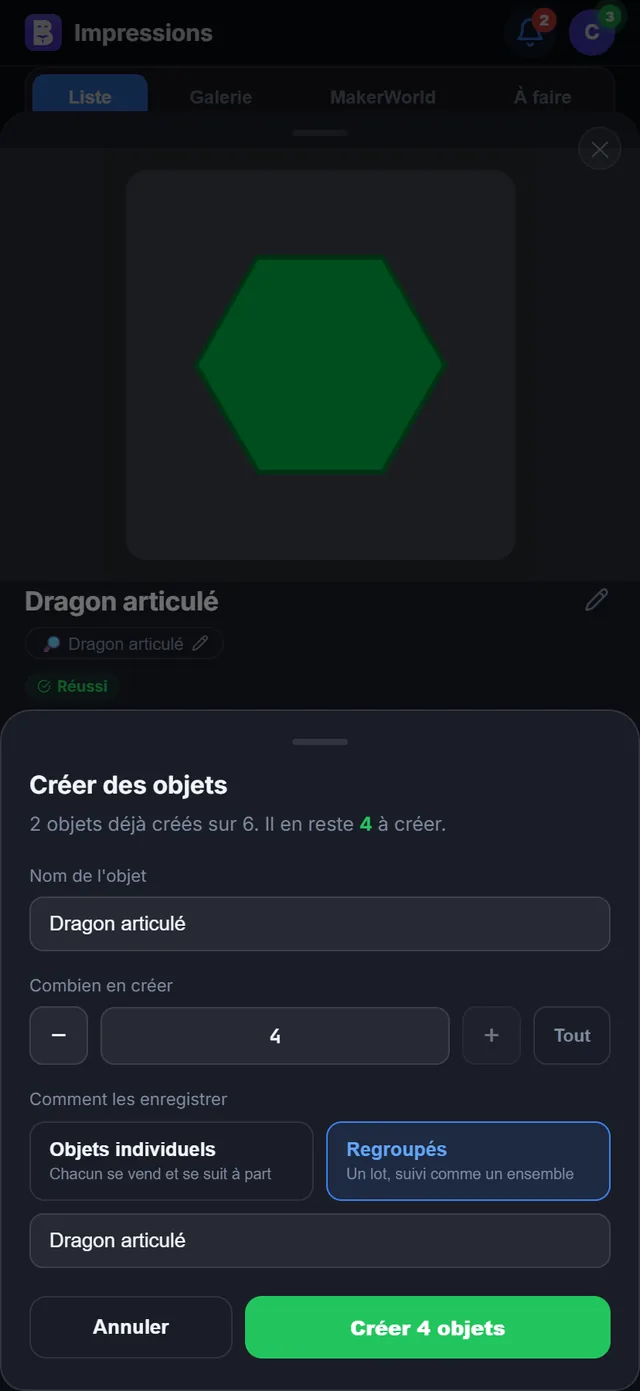
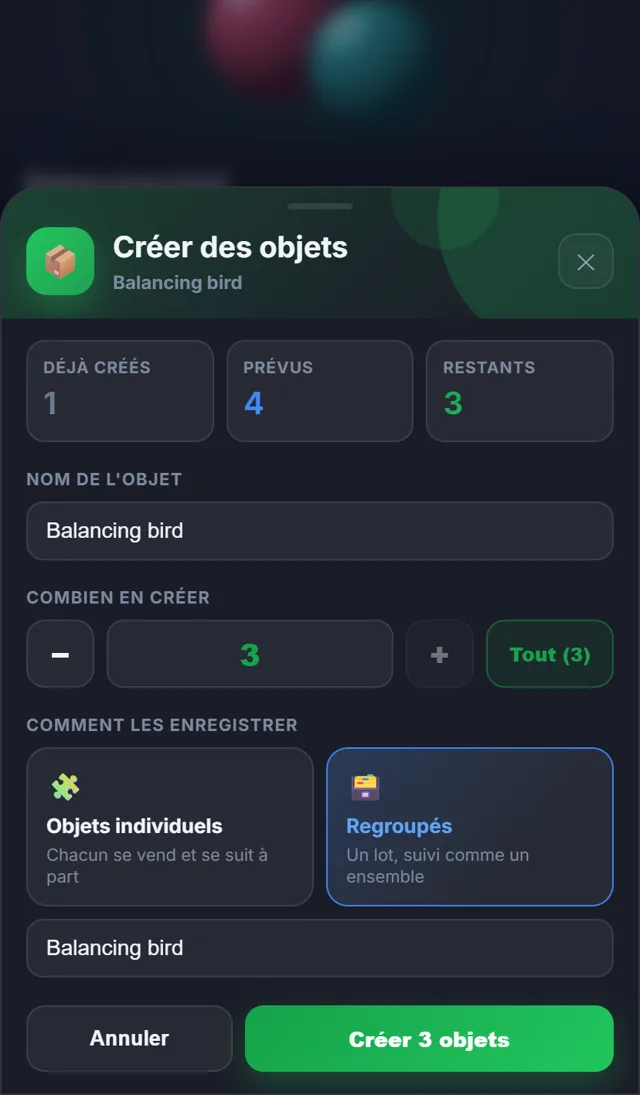
Fiche à l'essai : filaments repliables, objets au menu ; fenêtre « Créer des objets » refaite
- Nouvelle fiche : les filaments se replient de nouveau (replié par
  défaut, choix retenu ; la barre de couleurs reste le résumé, « N à
  associer » visible) ; « Créer des objets » passe dans le menu ⋯ avec
  « N / T déjà créés ».
- La fenêtre « Créer des objets » (partout) prend le style des fenêtres
  des tuiles : en-tête vert, cases Déjà créés / Prévus / Restants,
  quantité en grand, choix individuels / regroupés en cartes. Même
  logique qu'avant.
- Guide (objets, impressions) et capture mis à jour.

diff --git a/frontend/src/components/ObjectCreateSheet.jsx b/frontend/src/components/ObjectCreateSheet.jsx
@@ -14,7 +14,12 @@ import { useKeyboardInset } from "../utils/keyboard";
  * Au-dela d'un objet, une question que le quota ne tranche pas : des unites
  * independantes, ou un lot ? Elle est posee explicitement plutot que decidee
  * a la place de l'utilisateur.
+ *
+ * La fenetre a le style des fenetres des tuiles (24/10/2026) : en-tete en
+ * degrade, grande icone, cases de chiffres.
  */
+const C = "#22C55E";
+
 export default function ObjectCreateSheet({ parentType, parentId, defaultName,
                                             costFabrication = 0, onDone, onClose }) {
   useTrackDetail("Objets · Nouvel objet");
@@ -55,89 +60,98 @@ export default function ObjectCreateSheet({ parentType, parentId, defaultName,
     }
   };
 
-  const inp = { width:"100%", boxSizing:"border-box", padding:"9px 12px", borderRadius:9,
+  const inp = { width:"100%", boxSizing:"border-box", padding:"10px 12px", borderRadius:11,
     border:"1px solid var(--border)", background:"var(--surface2)", color:"var(--text)",
-    fontSize:13, outline:"none" };
+    fontSize:14, outline:"none" };
+  const narrow = typeof window !== "undefined" && window.innerWidth < 560;
+  const grad = (a, b) => ({ backgroundImage:`linear-gradient(135deg, ${a}, ${b})`, WebkitBackgroundClip:"text", backgroundClip:"text", color:"transparent" });
+  const lbl = { fontSize:11, fontWeight:800, letterSpacing:".06em", textTransform:"uppercase", color:"var(--muted)", display:"block", marginBottom:6 };
+  // une case de chiffre, comme les fenetres des tuiles
+  const stat = (l, v, a, b) => (
+    <div style={{ flex:1, minWidth:0, padding:"9px 10px", borderRadius:12, background:"var(--surface2)", border:"1px solid var(--border)" }}>
+      <div style={{ fontSize:10.5, fontWeight:800, color:"var(--muted)", textTransform:"uppercase", letterSpacing:".05em" }}>{l}</div>
+      <div style={{ fontSize:20, fontWeight:900, ...grad(a, b) }}>{v}</div>
+    </div>);
+  const step = (label, on, off) => (
+    <button onClick={on} disabled={off}
+      style={{ width:44, height:44, borderRadius:12, border:"1px solid var(--border)", background:"var(--surface2)", color:"var(--text)",
+        fontSize:20, fontWeight:800, cursor:"pointer", opacity: off ? 0.4 : 1 }}>{label}</button>);
 
   return (
     <div onClick={onClose}
-      style={{ position:"fixed", inset:0, zIndex:6000, background:"rgba(0,0,0,0.55)",
-        display:"flex", alignItems:"flex-end", justifyContent:"center" }}>
-      <div onClick={e => e.stopPropagation()} className="sheet-panel"
-        style={{ width:"100%", maxWidth:520, borderTopLeftRadius:20, borderTopRightRadius:20,
-          padding:"18px 18px max(env(safe-area-inset-bottom,20px),20px)",
-          marginBottom: kb, transition:"margin-bottom 0.15s ease",
-          maxHeight: kb > 0 ? `calc(92dvh - ${kb}px)` : "85dvh", overflowY:"auto" }}>
-        <div style={{ width:36, height:4, borderRadius:2, background:"var(--border)",
-          margin:"0 auto 14px" }}/>
-        <h3 style={{ margin:"0 0 4px", fontSize:16, fontWeight:800, color:"var(--text)" }}>
-          Créer des objets
-        </h3>
+      style={{ position:"fixed", inset:0, zIndex:6000, background:"rgba(2,6,23,0.55)", backdropFilter:"blur(6px)",
+        display:"flex", alignItems: narrow ? "flex-end" : "center", justifyContent:"center", padding: narrow ? 0 : 14 }}>
+      <div onClick={e => e.stopPropagation()}
+        style={{ width:"100%", maxWidth:520, borderRadius: narrow ? "26px 26px 0 0" : 24, background:"var(--sheet-bg)", border:"1px solid var(--border)",
+          boxShadow:"0 30px 80px rgba(0,0,0,0.45)", overflow:"hidden", display:"flex", flexDirection:"column",
+          marginBottom: kb, transition:"margin-bottom 0.15s ease", maxHeight: kb > 0 ? `calc(92dvh - ${kb}px)` : "88dvh",
+          animation: narrow ? "bn-sheet-up .3s cubic-bezier(.2,.8,.2,1)" : "bn-pop .24s cubic-bezier(.2,.8,.2,1)" }}>
+        {/* l'en-tete : degrade vert, deux halos, grande icone */}
+        <div style={{ position:"relative", padding: narrow ? "10px 16px 14px" : "16px 18px", overflow:"hidden", flexShrink:0,
+          background:`linear-gradient(135deg, ${C}38, ${C}10 55%, transparent)` }}>
+          <span aria-hidden="true" style={{ position:"absolute", right:-50, top:-70, width:180, height:180, borderRadius:"50%", background:`${C}30` }}/>
+          <span aria-hidden="true" style={{ position:"absolute", right:90, top:-30, width:70, height:70, borderRadius:"50%", background:`${C}1c` }}/>
+          {narrow && <div style={{ width:42, height:4, borderRadius:4, background:"var(--border)", margin:"0 auto 10px" }}/>}
+          <div style={{ display:"flex", alignItems:"center", gap:12, position:"relative" }}>
+            <span style={{ width:44, height:44, borderRadius:14, display:"flex", alignItems:"center", justifyContent:"center", flexShrink:0, fontSize:22,
+              background:`linear-gradient(135deg, ${C}, ${C}bb)`, boxShadow:`0 8px 20px ${C}55` }}>📦</span>
+            <span style={{ flex:1, minWidth:0 }}>
+              <span style={{ display:"block", fontSize:19, fontWeight:900, color:"var(--text)" }}>Créer des objets</span>
+              <span style={{ display:"block", fontSize:12, fontWeight:700, color:"var(--muted)", whiteSpace:"nowrap", overflow:"hidden", textOverflow:"ellipsis" }}>
+                {defaultName || "Sans nom"}</span>
+            </span>
+            <button onClick={onClose} aria-label="Fermer" style={{ width:36, height:36, borderRadius:12, border:"1px solid var(--border)", background:"var(--surface)",
+              color:"var(--text2)", cursor:"pointer", fontSize:15 }}>✕</button>
+          </div>
+        </div>
 
-        {quota && (
-          <p style={{ margin:"0 0 16px", fontSize:12.5, color:"var(--muted)" }}>
-            {quota.used} objet{quota.used>1?"s":""} déjà créé{quota.used>1?"s":""} sur {quota.total}.
-            {remaining > 0
-              ? <> Il en reste <b style={{ color:"#22c55e" }}>{remaining}</b> à créer.</>
-              : <> <b style={{ color:"#ef4444" }}>Aucun restant.</b></>}
-          </p>
-        )}
+        <div style={{ flex:1, minHeight:0, overflowY:"auto", padding: narrow ? "14px 16px 6px" : "16px 18px 6px", display:"flex", flexDirection:"column", gap:16 }}>
+          {quota && <div style={{ display:"flex", gap:8 }}>
+            {stat("Déjà créés", quota.used, "#64748B", "#94A3B8")}
+            {stat("Prévus", quota.total, "#3B82F6", "#60A5FA")}
+            {stat("Restants", remaining, remaining > 0 ? "#16A34A" : "#DC2626", remaining > 0 ? "#4ADE80" : "#F87171")}
+          </div>}
+          {err && <p style={{ fontSize:12.5, color:"#ef4444", margin:0, fontWeight:700 }}>{err}</p>}
+          {quota && remaining <= 0 && <p style={{ margin:0, fontSize:13, color:"var(--muted)" }}>Tous les objets prévus sont déjà créés.</p>}
 
-        {err && <p style={{ fontSize:12, color:"#ef4444", margin:"0 0 12px" }}>{err}</p>}
-
-        {remaining > 0 && (
-          <div style={{ display:"flex", flexDirection:"column", gap:14 }}>
+          {remaining > 0 && <>
             <div>
-              <label style={{ fontSize:11, color:"var(--muted)", display:"block",
-                marginBottom:5 }}>Nom de l'objet</label>
+              <label style={lbl}>Nom de l'objet</label>
               <input style={inp} value={name} onChange={e => setName(e.target.value)}/>
             </div>
 
             <div>
-              <label style={{ fontSize:11, color:"var(--muted)", display:"block",
-                marginBottom:5 }}>Combien en créer</label>
+              <label style={lbl}>Combien en créer</label>
               {/* Boutons plutot qu'un champ libre : la borne est visible et on
                   ne peut pas saisir l'impossible. Le champ reste la pour les
                   grandes quantites. */}
               <div style={{ display:"flex", alignItems:"center", gap:8 }}>
-                <button onClick={() => setQty(q => clamp(q - 1))} disabled={qty <= 1}
-                  style={{ width:38, height:38, borderRadius:9, border:"1px solid var(--border)",
-                    background:"var(--surface2)", color:"var(--text)", fontSize:18,
-                    cursor:"pointer", opacity: qty<=1?0.4:1 }}>−</button>
+                {step("−", () => setQty(q => clamp(q - 1)), qty <= 1)}
                 <input type="number" min={1} max={remaining} value={qty}
                   onChange={e => setQty(clamp(parseInt(e.target.value, 10)))}
-                  style={{ ...inp, textAlign:"center", flex:1,
-                    fontFamily:"'JetBrains Mono',ui-monospace,monospace", fontWeight:700 }}/>
-                <button onClick={() => setQty(q => clamp(q + 1))} disabled={qty >= remaining}
-                  style={{ width:38, height:38, borderRadius:9, border:"1px solid var(--border)",
-                    background:"var(--surface2)", color:"var(--text)", fontSize:18,
-                    cursor:"pointer", opacity: qty>=remaining?0.4:1 }}>+</button>
+                  style={{ ...inp, textAlign:"center", flex:1, height:44, fontSize:20, fontWeight:900, color:"#16a34a" }}/>
+                {step("+", () => setQty(q => clamp(q + 1)), qty >= remaining)}
                 {remaining > 1 && (
                   <button onClick={() => setQty(remaining)}
-                    style={{ padding:"0 12px", height:38, borderRadius:9,
-                      border:"1px solid var(--border)", background:"none",
-                      color:"var(--muted)", fontSize:11.5, fontWeight:600,
-                      cursor:"pointer", whiteSpace:"nowrap" }}>Tout</button>
+                    style={{ padding:"0 14px", height:44, borderRadius:12, border:`1px solid ${C}55`, background:`${C}14`, color:"#16a34a",
+                      fontSize:12.5, fontWeight:800, cursor:"pointer", whiteSpace:"nowrap" }}>Tout ({remaining})</button>
                 )}
               </div>
             </div>
 
             {qty > 1 && (
               <div>
-                <label style={{ fontSize:11, color:"var(--muted)", display:"block",
-                  marginBottom:6 }}>Comment les enregistrer</label>
+                <label style={lbl}>Comment les enregistrer</label>
                 <div style={{ display:"flex", gap:8 }}>
-                  {[["single","Objets individuels","Chacun se vend et se suit à part"],
-                    ["grouped","Regroupés","Un lot, suivi comme un ensemble"]].map(([m,l,d]) => (
+                  {[["single","🧩","Objets individuels","Chacun se vend et se suit à part"],
+                    ["grouped","🗃","Regroupés","Un lot, suivi comme un ensemble"]].map(([m,ic,l,d]) => (
                     <button key={m} onClick={() => setMode(m)}
-                      style={{ flex:1, minWidth:0, textAlign:"left", padding:"10px 12px",
-                        borderRadius:10, cursor:"pointer",
+                      style={{ flex:1, minWidth:0, textAlign:"left", padding:"11px 12px", borderRadius:14, cursor:"pointer", font:"inherit",
                         border:"1px solid " + (mode===m ? "#3b82f6" : "var(--border)"),
-                        background: mode===m ? "rgba(59,130,246,0.12)" : "transparent" }}>
-                      <span style={{ display:"block", fontSize:12.5, fontWeight:700,
-                        color: mode===m ? "#60a5fa" : "var(--text)" }}>{l}</span>
-                      <span style={{ display:"block", fontSize:10, color:"var(--muted)",
-                        marginTop:2, lineHeight:1.3 }}>{d}</span>
+                        background: mode===m ? "linear-gradient(135deg, rgba(59,130,246,0.18), transparent 70%), var(--surface2)" : "var(--surface2)" }}>
+                      <span style={{ display:"block", fontSize:18 }}>{ic}</span>
+                      <span style={{ display:"block", fontSize:13, fontWeight:800, color: mode===m ? "#60a5fa" : "var(--text)", marginTop:2 }}>{l}</span>
+                      <span style={{ display:"block", fontSize:11, color:"var(--muted)", marginTop:2, lineHeight:1.3 }}>{d}</span>
                     </button>
                   ))}
                 </div>
@@ -148,20 +162,19 @@ export default function ObjectCreateSheet({ parentType, parentId, defaultName,
                 )}
               </div>
             )}
-          </div>
-        )}
+          </>}
+        </div>
 
-        <div style={{ display:"flex", gap:8, marginTop:18 }}>
+        <div style={{ display:"flex", gap:8, padding: narrow ? "12px 16px max(env(safe-area-inset-bottom,14px),14px)" : "14px 18px 18px", flexShrink:0 }}>
           <button onClick={onClose}
-            style={{ flex:1, padding:"11px", borderRadius:11, fontSize:13, fontWeight:600,
-              border:"1px solid var(--border)", background:"transparent",
-              color:"var(--text)", cursor:"pointer" }}>
+            style={{ flex:1, padding:"12px", borderRadius:12, fontSize:13.5, fontWeight:700, border:"1px solid var(--border)",
+              background:"var(--surface2)", color:"var(--text)", cursor:"pointer" }}>
             {remaining > 0 ? "Annuler" : "Fermer"}
           </button>
           {remaining > 0 && (
             <button onClick={submit} disabled={busy}
-              style={{ flex:2, padding:"11px", borderRadius:11, fontSize:13, fontWeight:800,
-                border:"none", background:"#22c55e", color:"white", cursor:"pointer",
+              style={{ flex:2, padding:"12px", borderRadius:12, fontSize:13.5, fontWeight:900, border:"none",
+                background:`linear-gradient(135deg, #16a34a, ${C})`, color:"white", cursor:"pointer", boxShadow:`0 8px 20px ${C}44`,
                 opacity: busy?0.6:1 }}>
               {busy ? "Création…" : `Créer ${qty} objet${qty>1?"s":""}`}
             </button>

diff --git a/frontend/src/pages/Prints.jsx b/frontend/src/pages/Prints.jsx
@@ -1177,6 +1177,8 @@ function FicheSection({ icon, title, summary, open: open0 = true, children, tone
 // qu'avant (ouvrir, associer, dissocier) ; « Restituer » dans le titre. Cout reel puis normal entre parentheses.
 function FilamentsV2({ filaments, onSpoolClick, onSpoolPick, onRestore, onUnmap }) {
   const isAdmin = useIsAdmin();
+  const [open0, setOpen0] = useState(() => { try { return localStorage.getItem("bn-fiche-fils") === "1"; } catch { return false; } });
+  const toggle = () => setOpen0(o => { try { localStorage.setItem("bn-fiche-fils", o ? "0" : "1"); } catch { /* rien */ } return !o; });
   const total = filaments.reduce((t, f) => t + (f.grams_used || 0), 0);
   const hex = f => f.color_hex ? (String(f.color_hex).startsWith("#") ? f.color_hex : `#${f.color_hex}`).slice(0, 7) : "#94a3b8";
   const open = f => {
@@ -1195,19 +1197,23 @@ function FilamentsV2({ filaments, onSpoolClick, onSpoolPick, onRestore, onUnmap 
   });
   return (
     <div style={{ borderRadius: 16, background: "var(--surface2)", border: "1px solid var(--border)", padding: "11px 12px", display: "flex", flexDirection: "column", gap: 9 }}>
-      <div style={{ display: "flex", alignItems: "center", gap: 8 }}>
+      <div onClick={toggle} style={{ display: "flex", alignItems: "center", gap: 8, cursor: "pointer" }}>
         <span style={{ fontSize: 13.5, fontWeight: 800, color: "var(--text)" }}>🧵 Filaments</span>
         <span style={{ fontSize: 12, fontWeight: 700, color: "var(--muted)" }}>{filaments.length} · {gFr(total)}</span>
-        {isAdmin && onRestore && filaments.some(f => f.spool_id) && <button onClick={onRestore} data-tip="Rendre aux bobines une part du poids"
-          style={{ marginLeft: "auto", fontSize: 11.5, fontWeight: 800, padding: "3px 10px", borderRadius: 20, cursor: "pointer", background: "rgba(34,197,94,0.14)",
+        <span style={{ marginLeft: "auto" }}/>
+        {isAdmin && onRestore && filaments.some(f => f.spool_id) && <button onClick={e => { e.stopPropagation(); onRestore(); }} data-tip="Rendre aux bobines une part du poids"
+          style={{ fontSize: 11.5, fontWeight: 800, padding: "3px 10px", borderRadius: 20, cursor: "pointer", background: "rgba(34,197,94,0.14)",
             color: "#16a34a", border: "1px solid rgba(34,197,94,0.3)" }}>⚖ Restituer</button>}
+        {/* les bobines manquantes se voient meme replie */}
+        {!open0 && filaments.some(f => !f.spool_id) && <span style={{ fontSize: 11, fontWeight: 800, color: "#d97706" }}>▸ {filaments.filter(f => !f.spool_id).length} à associer</span>}
+        <span style={{ fontSize: 11, color: "var(--muted)", transform: open0 ? "rotate(90deg)" : "none", transition: "transform .15s" }}>▶</span>
       </div>
       {/* la repartition du poids */}
       {total > 0 && <div style={{ display: "flex", height: 8, borderRadius: 6, overflow: "hidden", gap: 2 }}>
         {filaments.map((f, i) => <span key={i} data-tip={`${f.filament_translated_name || f.filament_fila_type || f.filament_name || "Filament"} · ${Math.round(100 * (f.grams_used || 0) / total)} %`}
           style={{ flex: `${Math.max(0.02, (f.grams_used || 0) / total)} 1 0`, background: hex(f), boxShadow: "inset 0 0 0 1px rgba(0,0,0,.08)" }}/>)}
       </div>}
-      <div style={{ display: "flex", flexDirection: "column", gap: 6 }}>
+      {open0 && <div style={{ display: "flex", flexDirection: "column", gap: 6 }}>
         {filaments.map((f, i) => (
           <div key={i} onClick={() => open(f)} onContextMenu={e => { e.preventDefault(); menu(e, f); }}
             onPointerDown={e => { const t = setTimeout(() => { navigator.vibrate && navigator.vibrate(20); menu(e, f); }, 600); e.currentTarget._lpt = t; }}
@@ -1233,7 +1239,7 @@ function FilamentsV2({ filaments, onSpoolClick, onSpoolPick, onRestore, onUnmap 
             {isAdmin && <button onClick={e => { e.stopPropagation(); menu(e, f); }} aria-label="Actions du filament"
               style={{ width: 28, height: 28, flexShrink: 0, borderRadius: 9, border: "none", background: "transparent", color: "var(--muted)", cursor: "pointer", fontSize: 15 }}>⋯</button>}
           </div>))}
-      </div>
+      </div>}
     </div>);
 }
 
@@ -1264,6 +1270,12 @@ function PrintDetailV2({ p: pProp, onClose, onDelete, onChanged }) {
   const [showDeleteConfirm, setShowDeleteConfirm] = useState(false);
   const [selSpool, setSelSpool] = useState(null);
   // le detail du cout : ouvert par defaut (comme l'ancien bloc) ; l'appareil retient le choix
+  // le compte des objets crees (pour l'entree du menu, comme le faisait le bouton)
+  const [objQ, setObjQ] = useState(null);
+  useEffect(() => {
+    if (!isAdmin) return;
+    client.get("/objects/objects/quota", { params: { parent_type: "print", parent_id: pProp.id } }).then(r => setObjQ(r.data)).catch(() => setObjQ(null));
+  }, [pProp.id, refreshKey, isAdmin]); // eslint-disable-line react-hooks/exhaustive-deps
   const [costOpen, setCostOpen0] = useState(() => { try { return localStorage.getItem("bn-fiche-cost") === "1"; } catch { return false; } });
   const setCostOpen = f => setCostOpen0(o => { const v = typeof f === "function" ? f(o) : f; try { localStorage.setItem("bn-fiche-cost", v ? "1" : "0"); } catch { /* rien */ } return v; });
   const [localNb, setLocalNb] = useState(pProp.number_of_items || 1);
@@ -1296,6 +1308,9 @@ function PrintDetailV2({ p: pProp, onClose, onDelete, onChanged }) {
     items: [
       { icon: "✏", label: "Éditer", onClick: () => setEditMode(true) },
       { icon: "📣", label: "Partager", hint: "Telegram", onClick: () => setSharing(true) },
+      objQ && objQ.remaining > 0 ? { icon: "📦", label: "Créer des objets", hint: `${objQ.used} / ${objQ.total} déjà créés`,
+        onClick: () => setObjCreate({ name: p.file_name || "Sans nom", cost: totalBobine }) }
+        : objQ ? { icon: "📦", label: "Objets : tous créés", hint: `${objQ.used} / ${objQ.total}`, onClick: () => setObjCreate({ name: p.file_name || "Sans nom", cost: totalBobine }) } : null,
       groupe && { icon: "⛓", label: "Retirer du groupe", hint: groupe, onClick: handleUngroup },
       (p.source_3mf || p.model_3mf || (p.design_id && p.mw_profile_id)) && "-",
       p.source_3mf && { icon: "⤓", label: "Télécharger le 3MF d'origine", hint: "MakerWorld · à retrancher", onClick: () => download3mf(p.id, "source") },
@@ -1408,8 +1423,6 @@ function PrintDetailV2({ p: pProp, onClose, onDelete, onChanged }) {
       {fils.length > 0 && <FilamentsV2 filaments={fils} onSpoolClick={setSelSpool} onSpoolPick={setSpoolPicker}
         onRestore={() => setShowDeleteConfirm("restore")} onUnmap={setUnmapping}/>}
       {p.design_id && <MakerWorldCard designId={p.design_id} prints={[p]}/>}
-      {isAdmin && <ObjectQuotaButton parentType="print" parentId={p.id} label="depuis ce print" refreshKey={refreshKey}
-        onOpen={() => setObjCreate({ name: p.file_name || "Sans nom", cost: totalBobine })}/>}
       {p.status_note && <FicheSection icon="💬" title="Commentaire" tone="#A855F7">
         <p style={{ fontSize: 13, color: "var(--text)", margin: 0, lineHeight: 1.5 }}>{p.status_note}</p></FicheSection>}
       {(p.job_id || p.design_id) && <FicheSection icon="#" title="Identifiants" open={false}>

diff --git a/backend/guide/pages/impressions.html b/backend/guide/pages/impressions.html
@@ -179,7 +179,7 @@
 
   <section id="impressions-fiche-filaments">
     <h3>Filaments et bobines</h3>
-    <div class="note" id="impressions-fiche-v2"><p><b>Nouvelle fiche, à l'essai.</b> Au bas de la fiche, <span class="ui">✨ Essayer la nouvelle fiche</span> l'affiche sur cet appareil : le plateau en grand avec le titre, l'état, le groupe et le nom de recherche posés dessus ; quatre cases <span class="ui">Quand</span> (jour, heure et date), <span class="ui">Durée</span>, <span class="ui">Poids</span> et <span class="ui">Coût</span> : le prix réel, puis le prix normal entre parenthèses (touche la case pour le détail : filament, électricité, total, éléments et prix à l'unité, <span class="ui">Modifier</span>). Puis les photos ; les <b>filaments</b> : leur répartition en une barre de couleurs, une rangée par filament (poids, prix réel et normal entre parenthèses, « ✓ #3 » pour sa bobine ou « ▸ Associer »), toucher ouvre la bobine ou l'association, <span class="ui">⋯</span> ou l'appui long : ouvrir, associer, dissocier, et <span class="ui">⚖ Restituer</span> dans le titre ; MakerWorld, les objets, le commentaire et les identifiants. Les actions restent en bas : <span class="ui">Éditer</span>, <span class="ui">Partager</span> et <span class="ui">⋯</span> (aussi en haut) pour <span class="ui">Retirer du groupe</span>, <span class="ui">Télécharger le 3MF d'origine</span> (ou <span class="ui">Récupérer le 3MF d'origine</span>), <span class="ui">Télécharger le 3MF tranché</span>, <span class="ui">Supprimer…</span> et <span class="ui">Revenir à l'ancienne fiche</span>. Sur ordinateur, deux colonnes. Rien de l'ancienne fiche ne disparaît.</p></div>
+    <div class="note" id="impressions-fiche-v2"><p><b>Nouvelle fiche, à l'essai.</b> Au bas de la fiche, <span class="ui">✨ Essayer la nouvelle fiche</span> l'affiche sur cet appareil : le plateau en grand avec le titre, l'état, le groupe et le nom de recherche posés dessus ; quatre cases <span class="ui">Quand</span> (jour, heure et date), <span class="ui">Durée</span>, <span class="ui">Poids</span> et <span class="ui">Coût</span> : le prix réel, puis le prix normal entre parenthèses (touche la case pour le détail : filament, électricité, total, éléments et prix à l'unité, <span class="ui">Modifier</span>). Puis les photos ; les <b>filaments</b> : leur répartition en une barre de couleurs (touche le titre pour déplier ou replier ; replié par défaut, « ▸ N à associer » s'il en manque), une rangée par filament (poids, prix réel et normal entre parenthèses, « ✓ #3 » pour sa bobine ou « ▸ Associer »), toucher ouvre la bobine ou l'association, <span class="ui">⋯</span> ou l'appui long : ouvrir, associer, dissocier, et <span class="ui">⚖ Restituer</span> dans le titre ; MakerWorld, le commentaire et les identifiants. Les actions restent en bas : <span class="ui">Éditer</span>, <span class="ui">Partager</span> et <span class="ui">⋯</span> (aussi en haut) pour <span class="ui">📦 Créer des objets</span> (avec « N / T déjà créés »), <span class="ui">Retirer du groupe</span>, <span class="ui">Télécharger le 3MF d'origine</span> (ou <span class="ui">Récupérer le 3MF d'origine</span>), <span class="ui">Télécharger le 3MF tranché</span>, <span class="ui">Supprimer…</span> et <span class="ui">Revenir à l'ancienne fiche</span>. Sur ordinateur, deux colonnes. Rien de l'ancienne fiche ne disparaît.</p></div>
     <p id="impressions-3mf">Sous la carte MakerWorld, la carte <span class="ui">📦 FICHIERS 3MF</span> donne les fichiers de l'impression : <span class="ui">3MF tranché</span> (celui envoyé à ton imprimante, gardé au lancement) et <span class="ui">3MF d'origine</span> (le projet du profil MakerWorld imprimé, à retrancher pour une autre imprimante, et qui reste là même si le modèle disparaît de MakerWorld). Le 3MF d'origine est récupéré dès le lancement de l'impression (et de nouveau à la fin si ça avait échoué), une seule fois par profil ; s'il manque, <span class="ui">Récupérer le 3MF d'origine</span> <span class="admin">admin</span> le demande tout de suite. Il faut le compte MakerWorld connecté, et chaque récupération compte comme un téléchargement sur MakerWorld. Sans profil connu (ou si le profil imprimé a été retiré), c'est celui du modèle le plus proche de ton imprimante. Une impression lancée hors MakerWorld (ton propre projet) n'a que le 3MF tranché.</p>
     <p>Sous la carte MakerWorld, le bouton <span class="ui">📦 Créer des objets depuis ce print</span> <span class="admin">admin</span> transforme le print en objets à vendre ou à donner (voir <a href="#objets">Objets</a>) ; le compteur « 0 / 1 » dit combien d'objets ont déjà été créés sur le nombre d'éléments.</p>
     <p>L'accordéon <b>FILAMENTS (N)</b>, fermé par défaut, montre les pastilles des couleurs utilisées ; un point orange signale un filament qui n'est relié à aucune bobine. Touche-le pour le déplier :</p>

diff --git a/backend/guide/pages/objets.html b/backend/guide/pages/objets.html
@@ -15,17 +15,18 @@
   <ol>
     <li>Va dans <span class="ui">Impressions</span> et ouvre la <a href="#impressions-fiche">fiche de l'impression</a> (ou d'un groupe).</li>
     <li>En bas de la fiche, touche le bouton vert <span class="ui">📦 Créer des objets depuis ce print</span> (ou <span class="ui">📦 Créer des objets depuis ce groupe</span>). La pastille indique « objets déjà créés / total ».</li>
-    <li>Dans la feuille <span class="ui">Créer des objets</span>, vérifie le nom, choisis la quantité, puis touche <span class="ui">Créer N objets</span>.</li>
+    <li>Dans la nouvelle fiche (à l'essai), c'est l'entrée <span class="ui">📦 Créer des objets</span> du menu <span class="ui">⋯</span>, avec « N / T déjà créés ».</li>
+    <li>Dans la fenêtre <span class="ui">Créer des objets</span>, vérifie le nom, choisis la quantité, puis touche <span class="ui">Créer N objets</span>.</li>
   </ol>
   <figure class="pair">
     <img src="img/objets-bouton-creer.webp" alt="Bouton Créer des objets depuis ce print en bas de la fiche d'une impression">
     <img src="img/objets-creer.webp" alt="Feuille Créer des objets avec quantité et mode Regroupés">
-    <figcaption>À gauche, le bouton en bas de la fiche d'une impression (2 objets créés sur 6). À droite, la feuille de création : 4 objets restants, créés en lot.</figcaption>
+    <figcaption>À gauche, le bouton en bas de la fiche d'une impression (2 objets créés sur 6). À droite, la fenêtre de création (en-tête vert, cases Déjà créés / Prévus / Restants) : 3 objets restants, créés en lot.</figcaption>
   </figure>
   <dl class="opts">
-    <dt>Ligne de quota</dt><dd>« N objets déjà créés sur T. Il en reste R à créer. » ou, en rouge, « Aucun restant. ».</dd>
+    <dt>Les trois cases</dt><dd><span class="ui">Déjà créés</span>, <span class="ui">Prévus</span> et <span class="ui">Restants</span> (en rouge à 0, avec « Tous les objets prévus sont déjà créés. »).</dd>
     <dt>Nom de l'objet</dt><dd>Pré-rempli avec le nom de l'impression (ou du groupe). Laissé vide, l'objet s'appelle « Sans nom ».</dd>
-    <dt>Combien en créer</dt><dd>Boutons − et +, de 1 jusqu'au nombre restant. <span class="ui">Tout</span> met directement le maximum.</dd>
+    <dt>Combien en créer</dt><dd>Boutons − et +, de 1 jusqu'au nombre restant. <span class="ui">Tout (R)</span> met directement le maximum.</dd>
     <dt>Comment les enregistrer</dt><dd>Apparaît dès que tu en crées plus d'un. <span class="ui">Objets individuels</span> : « Chacun se vend et se suit à part ». <span class="ui">Regroupés</span> : « Un lot, suivi comme un ensemble » ; un champ en dessous donne le nom du <a href="#objets-groupes">groupe d'objets</a> (par défaut le nom de l'objet).</dd>
   </dl>
   <p>Quand tous les objets sont créés, le bouton devient gris : <span class="ui">📦 Tous les objets sont créés</span>.</p>
